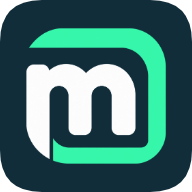
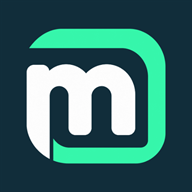
fix(pwa): iconos MiniSistema fondo petroleo pleno sin bordes blancos + maskable 192/512

diff --git a/src/app/sistema/manifest.webmanifest/route.ts b/src/app/sistema/manifest.webmanifest/route.ts
@@ -113,22 +113,34 @@ export async function GET(req: NextRequest) {
   } else if (tenant.is_base) {
     icons = [
       {
-        src: "/sistema/assets/img/minisistema/favicon-64.png",
+        src: "/sistema/assets/img/minisistema/favicon-64.png?v=3",
         sizes: "64x64",
         type: "image/png",
         purpose: "any",
       },
       {
-        src: "/sistema/assets/img/minisistema/icon-192.png",
+        src: "/sistema/assets/img/minisistema/icon-192.png?v=3",
         sizes: "192x192",
         type: "image/png",
         purpose: "any",
       },
       {
-        src: "/sistema/assets/img/minisistema/icon-512.png",
+        src: "/sistema/assets/img/minisistema/icon-512.png?v=3",
         sizes: "512x512",
         type: "image/png",
         purpose: "any",
+      },
+      {
+        src: "/sistema/assets/img/minisistema/icon-maskable-192.png?v=3",
+        sizes: "192x192",
+        type: "image/png",
+        purpose: "maskable",
+      },
+      {
+        src: "/sistema/assets/img/minisistema/icon-maskable-512.png?v=3",
+        sizes: "512x512",
+        type: "image/png",
+        purpose: "maskable",
       },
     ];
   } else {

diff --git a/src/app/asistencia/manifest.webmanifest/route.ts b/src/app/asistencia/manifest.webmanifest/route.ts
@@ -40,16 +40,28 @@ export async function GET(req: NextRequest) {
     categories: ["business", "productivity"],
     icons: [
       {
-        src: "/sistema/assets/img/minisistema/icon-192.png",
+        src: "/sistema/assets/img/minisistema/icon-192.png?v=3",
         sizes: "192x192",
         type: "image/png",
-        purpose: "any maskable",
+        purpose: "any",
       },
       {
-        src: "/sistema/assets/img/minisistema/icon-512.png",
+        src: "/sistema/assets/img/minisistema/icon-512.png?v=3",
         sizes: "512x512",
         type: "image/png",
-        purpose: "any maskable",
+        purpose: "any",
+      },
+      {
+        src: "/sistema/assets/img/minisistema/icon-maskable-192.png?v=3",
+        sizes: "192x192",
+        type: "image/png",
+        purpose: "maskable",
+      },
+      {
+        src: "/sistema/assets/img/minisistema/icon-maskable-512.png?v=3",
+        sizes: "512x512",
+        type: "image/png",
+        purpose: "maskable",
       },
     ],
   };

diff --git a/src/lib/erp/render-erp-app.ts b/src/lib/erp/render-erp-app.ts
@@ -304,9 +304,12 @@ export function renderErpHtmlResponse(params: {
     /<link\s+rel="icon"[^>]*>/gi,
     `<link rel="icon" type="image/png" sizes="64x64" href="${brand.logoSymbolUrl}?v=${assetVer}">`
   );
+  const appleTouchIconHref = tenant.is_base
+    ? `/sistema/assets/img/minisistema/apple-touch-icon.png?v=${assetVer}`
+    : `${brand.logoSymbolUrl}?v=${assetVer}`;
   html = html.replace(
     /<link\s+rel="apple-touch-icon"[^>]*>/gi,
-    `<link rel="apple-touch-icon" sizes="180x180" href="${brand.logoSymbolUrl}?v=${assetVer}">`
+    `<link rel="apple-touch-icon" sizes="180x180" href="${appleTouchIconHref}">`
   );
   html = html.replace(
     /<link\s+rel="manifest"\s+href="[^"]*"\s*\/?>/i,
